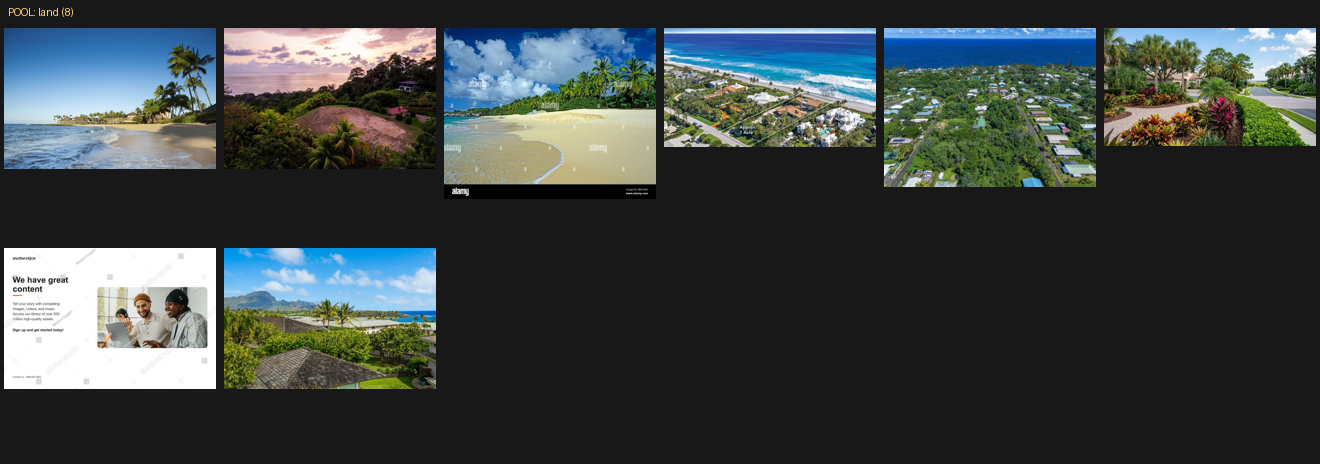
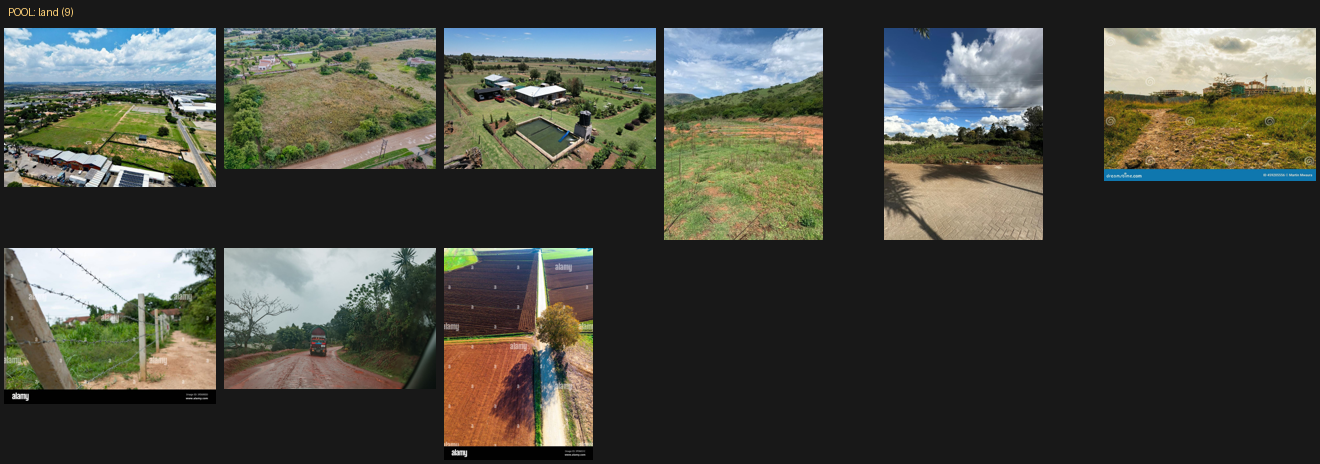
r57: bundle the demo-photo pools in git — end the "cards are back" cycle
Owner report: "the bento grid in the home page is broken once more...
the animation is broken."

Root cause (third occurrence of the same regression): the curated
stock-photo pools lived only in gitignored media/demo-photos/ and the
search URL lists in /tmp/imgsearch/. A sandbox recycle wiped both plus
db.sqlite3; fix-preview-bridge.sh then auto re-seeded with seed_demo,
whose _demo_photo fallback baked Pillow gradient cards with titles
drawn on — the placeholders the owner has rejected repeatedly. The
shape-shift animation itself was never broken: the FLIP reflow scales
those baked-text gradients, which reads as a broken animation.

Fix now (data, no code changed):
- 58 VLM-screened stock photos re-fetched via image search (four
  review passes: watermarks, stock-site credit bars, brand storefronts,
  renders/AI-look, off-topic), pools at house 10 / apartment 11 /
  interior 14 / land 6 / office 6 / shops 6 / warehouse 5 — all above
  the seeder minima the r55 test pins.
- db.sqlite3 wiped and re-seeded against the rebuilt pools; every
  bento/showcase card now carries a real photograph with fresh URLs
  (no stale gradient JPEGs in anyone's cache). Verified in-browser:
  spotlight promotion, card switch and leave-reset all run; reveal +
  bubble-title animations arm and fire; mobile bento renders photos.
- scripts/fetch-pool-urls.sh + scripts/install-replacement-pools.py
  added: how the pools were re-gathered and how to top one up.

Fix forever:
[…]

diff --git a/scripts/install-replacement-pools.py b/scripts/install-replacement-pools.py
@@ -1,0 +1,92 @@
+#!/usr/bin/env python3
+"""Install the replacement batch (r57) into the demo-photo pools.
+
+Reads the r57 *.urls files (land-b, office-b, shops-b, warehouse-b,
+apartment-c, interior-c), downloads + re-encodes exactly like
+scripts/install-stock-pools.py, and writes files into the pool dirs
+continuing the numbering AFTER the highest existing index, so kept
+photos keep their names (DB rows stay valid).
+"""
+import io
+import json
+import urllib.request
+from pathlib import Path
+
+from PIL import Image
+
+SRC = Path("/tmp/imgsearch")
+MEDIA = Path("/home/z/my-project/gabriel-homes/media/demo-photos")
+
+NEW = {
+    "land-b": "land",
+    "office-b": "office",
+    "shops-b": "shops",
+    "warehouse-b": "warehouse",
+    "apartment-c": "apartment",
+    "interior-c": "interior",
+}
+MAX_W, QUALITY, MIN_W = 1400, 80, 500
+
+
+def fetch(url: str) -> bytes:
+    req = urllib.request.Request(url, headers={"User-Agent": "Mozilla/5.0"})
+    with urllib.request.urlopen(req, timeout=60) as r:
+        return r.read()
+
+
+def reencode(data: bytes) -> tuple[bytes, int, int]:
+    img = Image.open(io.BytesIO(data))
+    img.load()
+    w, h = img.size
+    if w < MIN_W and h < MIN_W:
+        raise ValueError(f"too small {w}x{h}")
+    if img.mode != "RGB":
+        img = img.convert("RGB")
+    if w > MAX_W:
+        nh = round(h * MAX_W / w)
+        img = img.resize((MAX_W, nh), Image.LANCZOS)
+    buf = io.BytesIO()
+    img.save(buf, format="JPEG", quality=QUALITY, optimize=True, progressive=True)
+    return buf.getvalue(), img.width, img.height
+
+
+def next_free(pool_dir: Path, pool: str) -> int:
+    n = 0
+    for f in pool_dir.glob(f"{pool}-*.jpg"):
+        try:
+            n = max(n, int(f.stem.split("-")[1]))
+        except ValueError:
+            pass
+    return n
+
+
+def main() -> int:
+    installed, failures = [], []
+    for stem, pool in NEW.items():
+        raw = SRC / f"{stem}.raw"
+        text = raw.read_text()
+        start = text.find("{")
+        data = json.loads(text[start:])
+        urls = [r.get("original_url") for r in data.get("results", []) if r.get("original_url")]
+        pool_dir = MEDIA / pool
+        pool_dir.mkdir(parents=True, exist_ok=True)
+        n = next_free(pool_dir, pool)
+        for url in urls:
+            try:
+                jpeg, w, h = reencode(fetch(url))
+            except Exception as exc:  # noqa: BLE001
+                failures.append(f"{stem} {url[-16:]}: {exc}")
+                continue
+            n += 1
+            dest = pool_dir / f"{pool}-{n:02d}.jpg"
+            dest.write_bytes(jpeg)
+            installed.append((dest.relative_to(MEDIA), len(jpeg) // 1024, f"{w}x{h}"))
+    for rel, kb, dims in installed:
+        print(f"{rel}  {kb}KB  {dims}")
+    print(f"\ninstalled {len(installed)} replacement photos")
+    print("failures:", failures if failures else "none")
+    return 0
+
+
+if __name__ == "__main__":
+    raise SystemExit(main())
